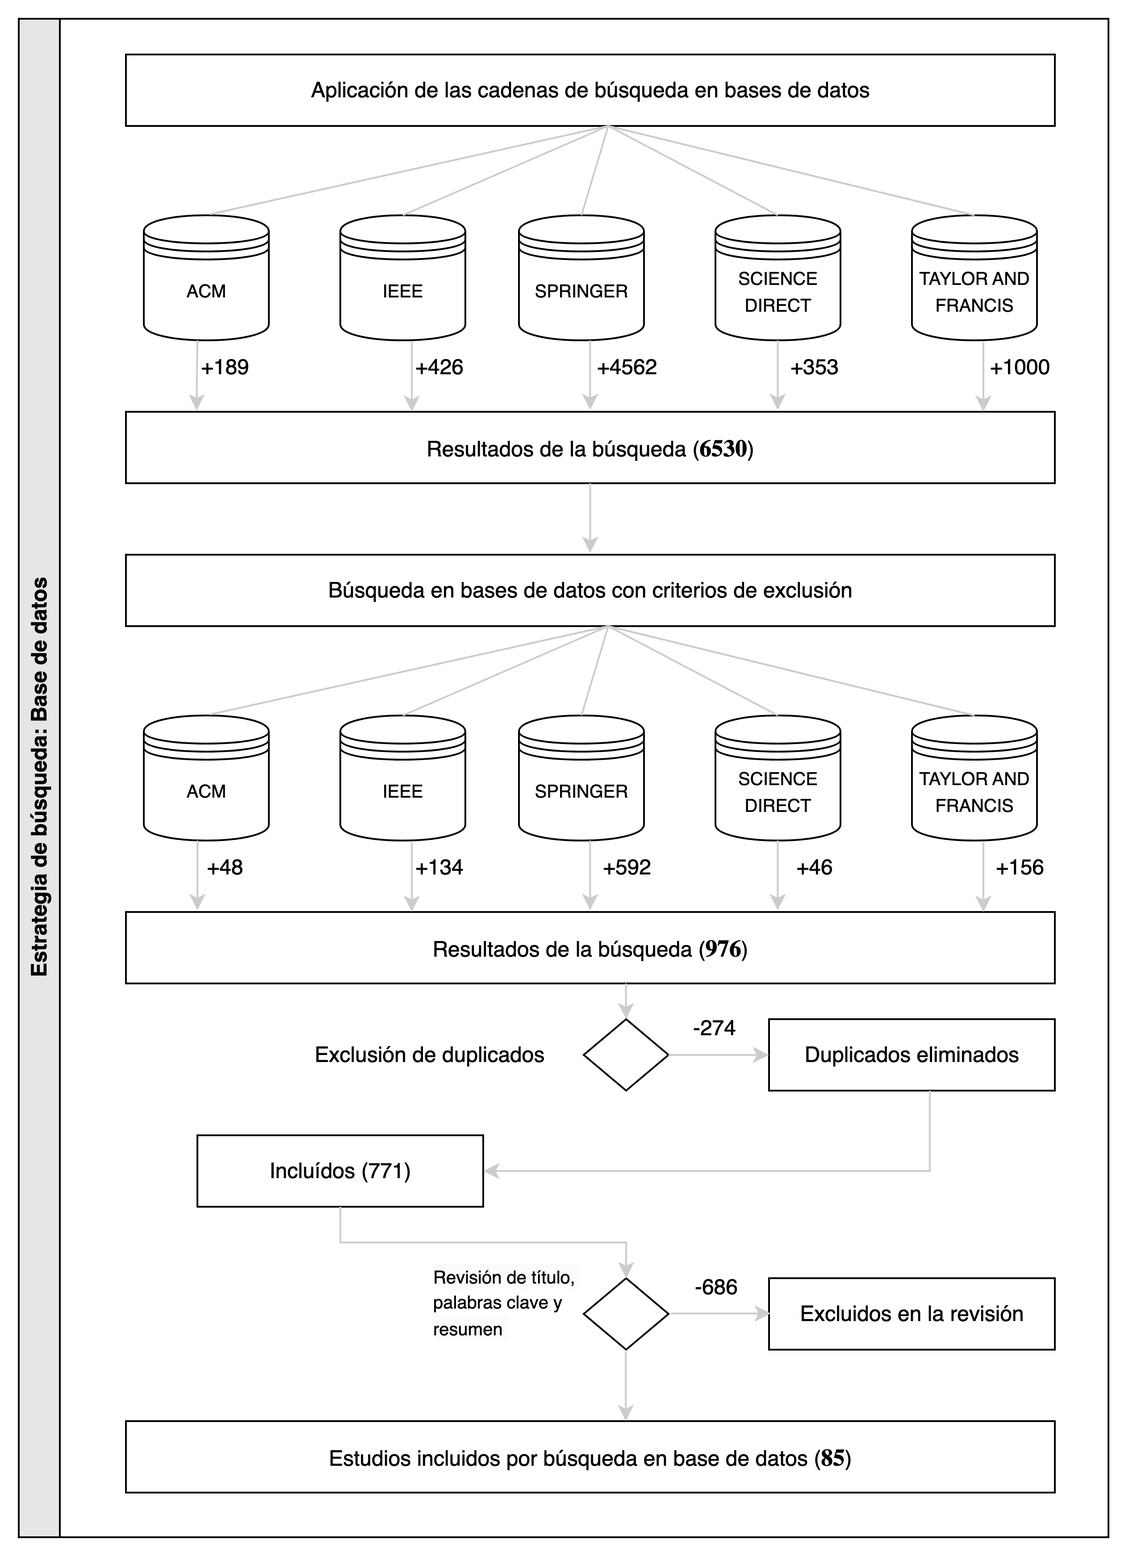
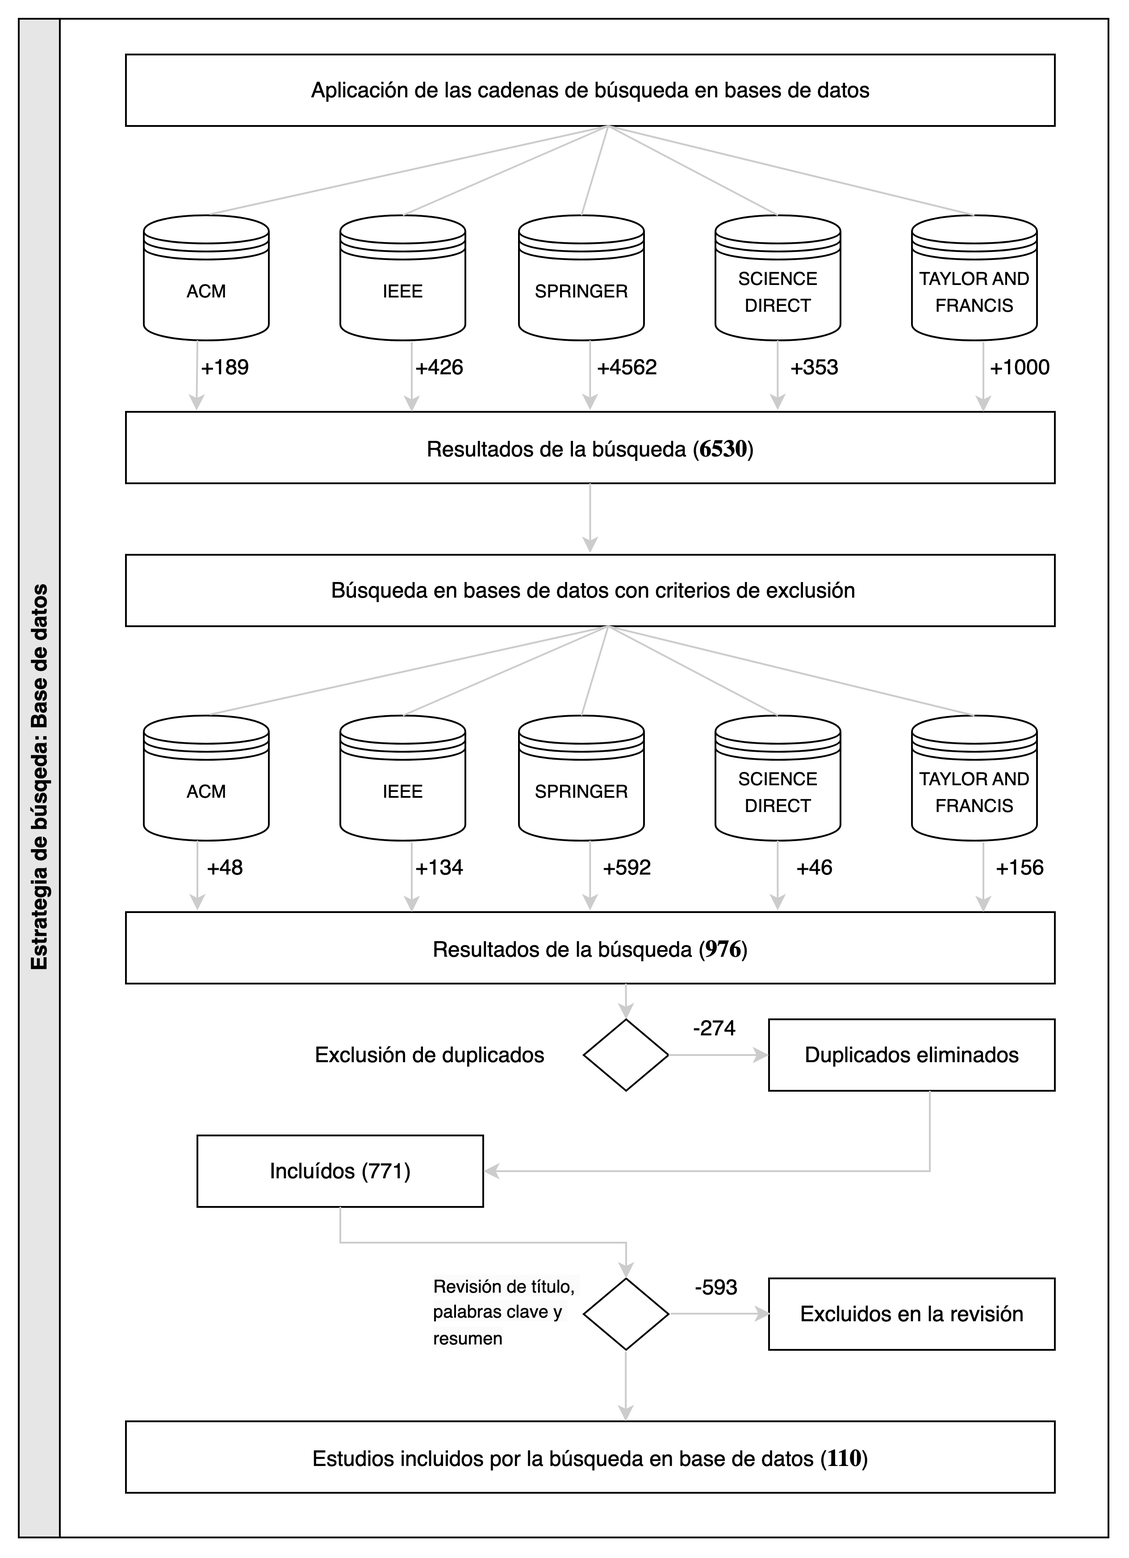
update: complete table topics

diff --git a/secciones/04-metodo-revision/02-busqueda-de-estudios/00-busqueda-de-estudios.tex b/secciones/04-metodo-revision/02-busqueda-de-estudios/00-busqueda-de-estudios.tex
@@ -32,7 +32,7 @@ El segundo componente es llamado ``Selección de estudios''. Se enfoca en aplica
     Luego de la construcción de las cadenas de búsqueda, se procedió a ejecutarlas en cada base de datos. El cuadro~\ref{tab:resultados-busqueda-sin-criterio} muestra el conjunto de resultados obtenidos. Se identificó un total de 6530 preliminares, destacando que la base de datos \textit{Springer} es la que más resultados aportó, con un total de 4562 artículos, equivalente al 69.8\% del total.\\
 
     \item \textbf{Selección de estudios: } Para refinar los resutados obtenidos en este proceso, se aplicaron los criterios de inclusión y exclusión definidos en la etapa de planeación. La tabla~\ref{tab:resultados-busqueda-criterios} muestra el resultado de este paso. Se redujo el total de artículos a 976. Springer se mantuvo como la base de datos con mayor número de artículos, con un total de 592, equivalente al 60.65\% del total. De los 976 artículos seleccionados se eliminaron 274 artículos duplicados, dejando un total de 771 artículos únicos. De este nuevo conjunto de datos, se realizó una revisión llamada \textit{Screening}. Este proceso consistió en revisar el título, resumen y las palabras clave de cada artículo para determinar si están en el contexto de la investigación, esto significa que están alineado con las metas del estudio. 
-    El proceso de \textit{Screening} permitió descartar 686 artículos debido a que se relacionaban con diferentes temas u otros enfoques que no aportaban valor a la investigación. Este proceso concluyó con un total de 85 estudios.
+    El proceso de \textit{Screening} permitió descartar 593 artículos debido a que se relacionaban con diferentes temas u otros enfoques que no aportaban valor a la investigación. Este proceso concluyó con un total de 110 estudios.
     De esta manera finaliza la estrategia de búsqueda en bases de datos, la figura \ref{fig:resumen-busqueda-bds} muestra un resumen de la metodología seguida en esta estrategia de búsqueda.\\
 \end{itemize}
 
@@ -163,12 +163,12 @@ El segundo componente es llamado ``Selección de estudios''. Se enfoca en aplica
 \subsubsection{Estrategia de Búsqueda 2: Bola de Nieve (Snowballing)}
 La estrategia de búsqueda de bola de nieve inicia con la identificación del conjunto base de artículos. Este conjunto base se usó en la revisión y selección de artículos relevantes. La identificación consistió en revisar las referencias de cada artículo para identificar nuevos artículos (Bola de nieve hacia atrás). Similarmente, se revisaron los artículos que citan los artículos base (Bola de nieve hacia adelante) lo que requirió usar una base de datos que indique esta información. En ambos casos, se aplicaron los criterios de inclusión y exclusión definidos en la etapa de planeación \cite{10.1145/2601248.2601268}. \\ \\
 Esta estrategia se realizó en dos pasos. El primer paso es llamado \textit{Construcción de la línea base} y tiene como objetivo establecer los artículos sobre los cuales se realizarán un análisis de citas y referencias. Para la construcción de este conjunto de estudios, se usó varios criterios basados en el CVI \textit{(Content Value Index)}, SCI \textit{(Study Citation Index)}, además de usar el criterio de inclusión directa. El segundo paso es llamado \textit{Selección de estudios} y se enfoca en el análisis de la referencias \textit{(Backward Snowballing)} y citas \textit{(Forward Snowballing)} de cada artículo. \\ \\
-La construcción de la línea base inicia con los 85 artículos obtenidos en la estrategia de búsqueda en bases de datos. De estos, se seleccionaron 24 artículos aplicando el critero de calidad SCI. La elección de este criterio se justifica en el hecho de que este criterio no depende de la valoración de los autores, sino que se basa en la cantidad de citas que recibe un artículo siendo este un indicador no subjetivo. El resultado de este paso es un total de 24 artículos seleccionados para la línea base. Los 24 artículos seleccionados se obtuvieron de hacer una análisis de frecuencia en las citas y extraer el primer cuartil (Q1) de los artículos más citados.\\ \\
-Como parte del proceso del SMS, es posible agregar estudios por inclusión directa. La inclusión directa aporta flexibilidad al proceso de búsqueda permitiendo añadir artículos que los autores consideran relevantes para el estudio. En este sentido, se agregó 1 artículo por inclusión directa, lo que llevó a un total de 25 artículos en la línea base.\\ \\
+La construcción de la línea base inicia con los 110 artículos obtenidos en la estrategia de búsqueda en bases de datos. De estos, se seleccionaron 25 artículos aplicando el critero de calidad SCI. La elección de este criterio se justifica en el hecho de que este criterio no depende de la valoración de los autores, sino que se basa en la cantidad de citas que recibe un artículo siendo este un indicador no subjetivo. El resultado de este paso es un total de 25 artículos seleccionados para la línea base. Los 25 artículos seleccionados se obtuvieron de hacer una análisis de frecuencia en las citas y extraer el primer cuartil (Q1) de los artículos más citados.\\ \\
+Como parte del proceso del SMS, es posible agregar estudios por inclusión directa. La inclusión directa aporta flexibilidad al proceso de búsqueda permitiendo añadir artículos que los autores consideran relevantes para el estudio. En este sentido, se agregó 1 artículo por inclusión directa, lo que llevó a un total de 26 artículos en la línea base.\\ \\
 Luego de la construcción de la línea base, se procedió con el análisis de las referencias, lo que aportó un total de 495 artículos nuevos. El proceso de búsqueda hacia adelante fue realizado haciendo uso de Google Scholar, quien proporciona información sobre las veces que que un artículo se ha citado y siguiendo las practicas de~\cite{8747000}. 
 Con respecto a la búsqueda hacia atrás fue un total de 87 nuevos artículos.\\
 
-Se procedió a eliminar 14 duplicados entre los resultados de las búsquedas hacia atrás y hacia adelante. Acto seguido, se realizó nuevamente el \textit{Screening}. Este proceso de \textit{Screening}, al igual que el anterior, revisó el título, resumen y palabras claves, permitiendo reducir a 90 los artículos seleccionados usando estrategia de búsqueda. Ver figura~\ref{fig:resumen-busqueda-snowballing} para un resumen de la estrategia de búsqueda bola de nieve.\\ \\
+Se procedió a eliminar 14 duplicados entre los resultados de las búsquedas hacia atrás y hacia adelante. Acto seguido, se realizó nuevamente el \textit{Screening}. Este proceso de \textit{Screening}, al igual que el anterior, revisó el título, resumen y palabras claves, permitiendo reducir a 116 los artículos seleccionados usando estrategia de búsqueda. Ver figura~\ref{fig:resumen-busqueda-snowballing} para un resumen de la estrategia de búsqueda bola de nieve.\\ \\
 \mbox{}
 
 \begin{figure*}[tbp]
@@ -187,10 +187,10 @@ Se procedió a eliminar 14 duplicados entre los resultados de las búsquedas hac
 \toprule
 \textbf{Estrategia} & \textbf{Estudios} & \textbf{\%} \\
 \midrule
-Bases de Datos & 85 & 48.29\% \\
-Bola de Nieve & 90 & 51.13\% \\
-Inclusión Directa & 1 & 0.56\% \\
-\textbf{Total} & \textbf{176} & \textbf{100\%} \\
+Bases de Datos & 110 & 48.67\% \\
+Bola de Nieve & 115 & 50.88\% \\
+Inclusión Directa & 1 & 0.44\% \\
+\textbf{Total} & \textbf{226} & \textbf{100\%} \\
 \bottomrule
 \end{tabularx}
 \caption{Resultados de la búsqueda de estudios}\label{tab:resultados-busqueda}
@@ -199,5 +199,5 @@ Inclusión Directa & 1 & 0.56\% \\
 % sub=-subsection 4.2.4
 \subsubsection{Resultados de la Búsqueda de Estudios}\label{subsubsec:resultados-busqueda}
 \mbox{}\\
-Finalmente, se resumen la búsqueda de artículos en 85 estudios obtenidos a través de bases de datos académicas, 90 estudios identificados mediante bola de nieve y 1 por inclusión directa, para un total de 176 estudios identificación. Ver cuadro~\ref{tab:resultados-busqueda}
+Finalmente, se resumen la búsqueda de artículos en 110 estudios obtenidos a través de bases de datos académicas, 116 estudios identificados mediante bola de nieve y 1 por inclusión directa (el cual se contabiliza en la bola de nieve), para un total de 226 estudios identificados. Ver cuadro~\ref{tab:resultados-busqueda}
 \mbox{}\\

diff --git a/secciones/04-metodo-revision/05-clasificacion-de-estudios/00-clasificacion-de-estudios.tex b/secciones/04-metodo-revision/05-clasificacion-de-estudios/00-clasificacion-de-estudios.tex
@@ -1,3 +1,25 @@
-% subseccion 4.5
 \subsection{Etapa 5: Clasificación de Estudios}\label{sec:clasificacion-estudios}
-La clasificación de los SPS se realizó haciendo uso de tópicos de agrupamiento, como se observa en la tabla~\ref{}
+La clasificación de los SPS se realizó haciendo uso de tópicos de agrupamiento, como se observa en la tabla~\ref{tab:clasificacion} y \ref{tab:clasificacionQ2}.
+
+% Columnas
+\newcolumntype{Y}{>{\raggedright\arraybackslash}p{5cm}} % ancho fijo, se puede ajustar
+\newcolumntype{Z}{>{\centering\arraybackslash}p{3cm}}   % columna centrada de ancho fijo
+
+\onecolumn
+
+\begin{longtable}{c Z Y Y Y}
+\caption{Clasificación de estudios SPS por tópico y año}\label{tab:clasificacion} \\
+
+\toprule
+\textbf{PI} & \textbf{Tópico} & \textbf{2022} & \textbf{2023} & \textbf{2024} \\
+\midrule
+\endfirsthead
+
+\toprule
+\textbf{PI} & \textbf{Tópico} & \textbf{2022} & \textbf{2023} & \textbf{2024} \\
+\midrule
+\endhead
+
+\multirow{3}{*}{\textbf{Q1}} & INVESTIGACION & SPS002, SPS003, SPS007, SPS013, SPS017, SPS023, SPS039, SPS041, SPS044, SPS053, SPS059, SPS062, SPS064, SPS069, SPS070, SPS071, SPS073, SPS077, SPS079, SPS080, SPS083, SPS085, SPS088, SPS092, SPS098, SPS099, SPS105, SPS137, SPS143, SPS144, SPS145, SPS146, SPS149, SPS154, SPS155, SPS157, SPS176, SPS180, SPS182, SPS187, SPS191, SPS192, SPS204 & SPS004, SPS012, SPS015, SPS027, SPS029, SPS034, SPS046, SPS047, SPS055, SPS056, SPS057, SPS060, SPS066, SPS067, SPS068, SPS075, SPS076, SPS081, SPS086, SPS090, SPS093, SPS094, SPS097, SPS103, SPS117, SPS119, SPS126, SPS127, SPS134, SPS135, SPS138, SPS150, SPS153, SPS159, SPS165, SPS166, SPS167, SPS171, SPS173, SPS174, SPS175, SPS177, SPS179, SPS183, SPS185, SPS189, SPS195, SPS200, SPS201, SPS203, SPS205, SPS208, SPS209, SPS212, SPS220, SPS221, SPS222, SPS223, SPS225, SPS226 & SPS001, SPS005, SPS006, SPS008, SPS009, SPS010, SPS011, SPS014, SPS016, SPS018, SPS019, SPS021, SPS022, SPS024, SPS025, SPS026, SPS028, SPS030, SPS032, SPS033, SPS035, SPS036, SPS040, SPS043, SPS045, SPS048, SPS049, SPS050, SPS051, SPS052, SPS054, SPS061, SPS065, SPS074, SPS082, SPS087, SPS091, SPS095, SPS100, SPS102, SPS104, SPS106, SPS107, SPS108, SPS109, SPS110, SPS111, SPS113, SPS118, SPS121, SPS122, SPS123, SPS124, SPS125, SPS128, SPS129, SPS130, SPS131, SPS132, SPS133, SPS136, SPS140, SPS141, SPS142, SPS147, SPS148, SPS151, SPS156, SPS158, SPS160, SPS161, SPS162, SPS164, SPS168, SPS169, SPS170, SPS172, SPS178, SPS184, SPS186, SPS188, SPS190, SPS193, SPS194, SPS196, SPS197, SPS198, SPS202, SPS210, SPS213, SPS214, SPS215, SPS216, SPS217, SPS219, SPS224 \\\\ & EDUCACION & SPS038, SPS058, SPS101, SPS146, SPS187 & SPS020, SPS072, SPS075, SPS116, SPS120, SPS152, SPS206, SPS207, SPS218 & SPS042, SPS089, SPS096, SPS115, SPS124, SPS139, SPS151, SPS163, SPS198, SPS199 \\\\ & EXTENSION & SPS002, SPS031, SPS037, SPS099 & SPS078, SPS112, SPS208, SPS220 & SPS010, SPS063, SPS114, SPS181, SPS211, SPS213 \\ \midrule \multirow{10}{*}{\textbf{Q2}} & Desarrollo de software & SPS002, SPS037, SPS038, SPS044, SPS053, SPS058, SPS098, SPS101 & SPS015, SPS078, SPS086, SPS120, SPS183, SPS195 & SPS008, SPS010, SPS022, SPS028, SPS042, SPS043, SPS096, SPS100, SPS118, SPS133, SPS172, SPS215, SPS224 \\\\ & Pensamiento computacional & SPS187 & SPS116 & SPS042, SPS115, SPS198 \\\\ & Computación paralela & SPS017 & SPS020, SPS134, SPS223 & \\ \\ & Análisis de datos & SPS037, SPS071, SPS157 & SPS183, SPS209 & SPS001, SPS005, SPS028, SPS045, SPS061, SPS082, SPS129 \\\\ & Inteligencia artificial & SPS023, SPS037, SPS059, SPS073, SPS077, SPS080, SPS149, SPS154, SPS177 & SPS027, SPS072, SPS078, SPS183, SPS209 & SPS011, SPS030, SPS040, SPS051, SPS082, SPS095, SPS142, SPS148, SPS161, SPS169, SPS170, SPS181 \\\\ & Redes computacionales & SPS105, SPS187 & SPS046, SPS094, SPS103, SPS159 & SPS010, SPS019, SPS048, SPS106, SPS110, SPS113, SPS132, SPS139, SPS164, SPS198, SPS216, SPS219 \\\\ & Infraestructura de TI & SPS003, SPS007, SPS017, SPS023, SPS031, SPS037, SPS038, SPS039, SPS053, SPS062, SPS069, SPS070, SPS073, SPS077, SPS079, SPS083, SPS085, SPS088, SPS092, SPS099, SPS105, SPS137, SPS143, SPS144, SPS145, SPS146, SPS149, SPS154, SPS155, SPS176, SPS180, SPS182, SPS187, SPS204 & SPS004, SPS012, SPS020, SPS027, SPS029, SPS034, SPS046, SPS047, SPS055, SPS056, SPS057, SPS060, SPS066, SPS067, SPS068, SPS075, SPS076, SPS078, SPS081, SPS084, SPS090, SPS094, SPS103, SPS112, SPS117, SPS119, SPS126, SPS134, SPS135, SPS150, SPS152, SPS159, SPS167, SPS171, SPS173, SPS174, SPS175, SPS177, SPS179, SPS183, SPS185, SPS189, SPS200, SPS201, SPS205, SPS206, SPS207, SPS208, SPS212, SPS218, SPS220, SPS222, SPS223, SPS225 & SPS009, SPS011, SPS014, SPS018, SPS019, SPS021, SPS024, SPS025, SPS026, SPS030, SPS032, SPS033, SPS036, SPS048, SPS049, SPS051, SPS052, SPS054, SPS074, SPS082, SPS087, SPS089, SPS091, SPS095, SPS096, SPS100, SPS102, SPS104, SPS106, SPS107, SPS109, SPS110, SPS111, SPS115, SPS121, SPS122, SPS123, SPS124, SPS125, SPS129, SPS130, SPS131, SPS132, SPS136, SPS140, SPS148, SPS151, SPS156, SPS160, SPS163, SPS164, SPS168, SPS169, SPS170, SPS172, SPS178, SPS181, SPS184, SPS186, SPS188, SPS190, SPS196, SPS197, SPS198, SPS199, SPS210, SPS211, SPS213, SPS214, SPS215, SPS216, SPS217, SPS219, SPS224 \\\\ & HPC & SPS017, SPS041, SPS062, SPS083, SPS098 & SPS027, SPS090, SPS134, SPS200 & SPS008, SPS014, SPS018, SPS114, SPS121, SPS129, SPS178, SPS194 \\\\ & Blockchain & & & SPS063 \\\\ & Seguridad & SPS013, SPS064, SPS069, SPS070, SPS079, SPS083, SPS092, SPS155, SPS157, SPS191, SPS192 & SPS034, SPS047, SPS081, SPS084, SPS086, SPS093, SPS094, SPS097, SPS119, SPS126, SPS127, SPS138, SPS150, SPS153, SPS165, SPS166, SPS175, SPS183, SPS189, SPS203, SPS221, SPS226 & SPS001, SPS006, SPS009, SPS016, SPS022, SPS025, SPS035, SPS040, SPS043, SPS049, SPS050, SPS051, SPS065, SPS082, SPS108, SPS118, SPS125, SPS128, SPS129, SPS131, SPS141, SPS147, SPS156, SPS158, SPS160, SPS161, SPS162, SPS170, SPS188, SPS190, SPS193, SPS214, SPS219 \\\\ & Cloud computing & SPS002, SPS003, SPS031, SPS069, SPS070, SPS071, SPS079, SPS080, SPS085, SPS099, SPS137, SPS143, SPS146, SPS149 & SPS012, SPS015, SPS029, SPS055, SPS056, SPS084, SPS126, SPS173, SPS177, SPS179, SPS185, SPS222 & SPS018, SPS019, SPS025, SPS026, SPS030, SPS032, SPS033, SPS043, SPS045, SPS087, SPS091, SPS109, SPS111, SPS136, SPS163, SPS193, SPS194, SPS197, SPS202, SPS210, SPS213, SPS214, SPS216, SPS217 \\ \bottomrule
+\end{longtable}
+\twocolumn

diff --git a/secciones/04-metodo-revision/03-evaluacion-de-calidad/00-evaluacion-de-calidad.tex b/secciones/04-metodo-revision/03-evaluacion-de-calidad/00-evaluacion-de-calidad.tex
@@ -1,22 +1,21 @@
 % subseccion 4.3
 \subsection{Etapa 3: Evaluación de Calidad}
-De acuerdo a~\cite{8747000}, no es necesario incorporar una evaluación de calidad en el mapeo sitemático. Sin embargo, una evaluación de calidad podría acercar el SMS a una revisión sistemática~\cite{10.1145/2601248.2601268}. Por lo tanto, se busca verificar la relevancia de los estudios identificados por los objetivos del SMS a través de la evaluación de calidad. Se usó el CVI \textit{(Content Value Index)}, SCI \textit{(Study citation index)} y IRRQ \textit{(Index of Relationship to Research Questions)} definidos en la fase de planeación con el objetivo de la evaluación de calidad.
-\mbox{}\\
+De acuerdo a~\cite{8747000}, no es necesario incorporar una evaluación de calidad en el mapeo sitemático. Sin embargo, una evaluación de calidad podría acercar el SMS a una revisión sistemática~\cite{10.1145/2601248.2601268}. Por lo tanto, se busca verificar la relevancia de los estudios identificados por los objetivos del SMS a través de la evaluación de calidad. Se usó el CVI \textit{(Content Value Index)}, SCI \textit{(Study citation index)} y IRRQ \textit{(Index of Relationship to Research Questions)} definidos en la fase de planeación con el objetivo de la evaluación de calidad.\\
 
 %sub-subseccion 4.3.1
 \subsubsection{Evaluación de la Validez del Contenido}
+\mbox{}\\
 Esta evaluación involucra analizar el contenido de los artículos para determinar su valor en el contexto de la investigación. Para esto se usó el CVI descrito en la fase de planeación. \\
 Los estudios se ordenaron respecto al índice CVI, con un número impar de evaluadores. De esta manera, se evitó los empates en este índice, ya que, si el número de evaluadores es impar siempre se puede tomar una decisión mayoritaria. Además, esto conduce a un análisis de frecuencia para seleccionar el cuartil más significativo, o lo que es lo mismo, con el CVI más alto. \\
-Esta evaluación se realizó en dos rondas. La primera vez fue en en el proceso de selección de la línea base en la estrategia de búsqueda de bola de nieve. La segunda vez fue luego de identificar los 176 estudios incluidos en el SMS, cuyos resultados se muestran en el paso 5:~\hyperref[sec:clasificacion-estudios]{Clasificación de estudios}.
-\mbox{}\\
+Esta evaluación se realizó en dos rondas. La primera vez fue en en el proceso de selección de la línea base en la estrategia de búsqueda de bola de nieve. La segunda vez fue luego de identificar los 226 estudios incluidos en el SMS, cuyos resultados se muestran en el paso 5:~\hyperref[sec:clasificacion-estudios]{Clasificación de estudios}.\\
 
 %sub-subseccion 4.3.2
 \subsubsection{Índice para la Evaluación de Calidad por Número de Citas}
-Esta evaluación de los estudios fue hecha teniendo en cuenta el índice SCI. Se calculó este índice apoyado por el software SMS-Builder~\cite{candela2020smsbuilder} y los datos de citación proporcionados por Google Scholar. Paso seguido, también se realizó un análisis de frecuencia para obtener el cuartil más significativo de los estudios: Aquellos con el SCI más alto \\
 \mbox{}\\
+Esta evaluación de los estudios fue hecha teniendo en cuenta el índice SCI. Se calculó este índice apoyado por el software SMS-Builder~\cite{candela2020smsbuilder} y los datos de citación proporcionados por Google Scholar. Paso seguido, también se realizó un análisis de frecuencia para obtener el cuartil más significativo de los estudios: Aquellos con el SCI más alto \\
 
 %sub-subseccion 4.3.3
 \subsubsection{Índice para la Evaluación de la Relación de los Estudios con las Preguntas de Investigación}
-Esta evaluación de la calidad usa el índice IRRQ descrito en la fase de planeación (Sección~\ref{subsec:planeacion}). En este sentido, se analizó los estudios para establecer su relación con los tópicos de clasificación. Además de que los tópicos también tienen una relación directa con las preguntas de investigación.\\
-A través de este proceso, se usó el software SMS-Builder~\cite{candela2020smsbuilder} para establecer la relación entre los estudios y las preguntas de investigación propuestas en este SMS. Como en el caso anterior, se realizó un análisis de frecuencia donde se seleccionó el cuartil con los estudios más significativo: Aquellos con el IRRQ más alto.\\
 \mbox{}\\
+Esta evaluación de la calidad usa el índice IRRQ descrito en la fase de planeación (Sección~\ref{subsec:planeacion}). En este sentido, se analizó los estudios para establecer su relación con los tópicos de clasificación. Además de que los tópicos también tienen una relación directa con las preguntas de investigación.\\
+A través de este proceso, se usó el software SMS-Builder~\cite{candela2020smsbuilder} para establecer la relación entre los estudios y las preguntas de investigación propuestas en este SMS. Como en el caso anterior, se realizó un análisis de frecuencia donde se seleccionó el cuartil con los estudios más significativo: Aquellos con el IRRQ más alto.

diff --git a/secciones/04-metodo-revision/04-extraccion-de-datos/00-extraccion-de-datos.tex b/secciones/04-metodo-revision/04-extraccion-de-datos/00-extraccion-de-datos.tex
@@ -1,11 +1,11 @@
 % subseccion 4.4
 \subsection{Etapa 4: Extracción de Datos}
-Luego de realizar las etapas de búsqueda y selección de los estudios y realizar una valoración de la calidad, se seleccionaron 176 estudios primarios. Se etiquetaron con el prefijo SPS por sus siglas en inglés \textit{Selected primary study} seguido por un número. La lista completa se puede observar en~\ref{tab:sps-list}.
+Luego de realizar las etapas de búsqueda y selección de los estudios y realizar una valoración de la calidad, se seleccionaron 226 estudios primarios. Se etiquetaron con el prefijo SPS por sus siglas en inglés \textit{Selected primary study} seguido por un número. La lista completa se puede observar en~\ref{tab:sps-list}.
 
 \begin{table*}[htbp]
 \centering
 \footnotesize
-\caption{Los 176 estudios primarios seleccionados (SPSs)}\label{tab:sps-list}
+\caption{Los 226 estudios primarios seleccionados (SPSs)}\label{tab:sps-list}
 
 \renewcommand{\arraystretch}{1.3} % <-- aumenta el margen entre filas
 

diff --git a/main.tex b/main.tex
@@ -4,7 +4,7 @@
 \usepackage{booktabs}
 \usepackage{array}    % Para personalizar el formato de las columnas
 \usepackage{float}    % Para usar [H] y forzar la posición de la tabla
-\usepackage{tabularx}
+
 \usepackage{ragged2e}
 % Paquete para soporte del idioma español
 % Importante para que la compilación de términos generados automaticamente se haga en español.
@@ -15,7 +15,9 @@
 \usepackage{lscape} % Alternativa para landscape (opcional)
 \usepackage{adjustbox}
 \usepackage{supertabular}
-
+\usepackage{pdflscape}
+\usepackage{multirow}
+\usepackage{tabularx}
 
 % --- PAQUETE PARA HIPERVÍNCULOS ---
 % La finalidad de su uso en este proyecto es otorgar enlaces a las citas hechas a traves del documento.

diff --git a/secciones/04-metodo-revision/01-planeacion/00-planeacion.tex b/secciones/04-metodo-revision/01-planeacion/00-planeacion.tex
@@ -149,4 +149,4 @@ El tercer criterio de calidad corresponde a la relación de los estudios con las
 IRRQ = \frac{N}{2}
 \end{equation}
 
-N corresponde al número de preguntas de investigación que el estudio responde. Este valor se divide en 2 porque es el número de preguntas de investigación definidas en la etapa de planeación. \\
+N corresponde al número de preguntas de investigación que el estudio responde. Este valor se divide en 2 porque es el número de preguntas de investigación definidas en la etapa de planeación.\\
